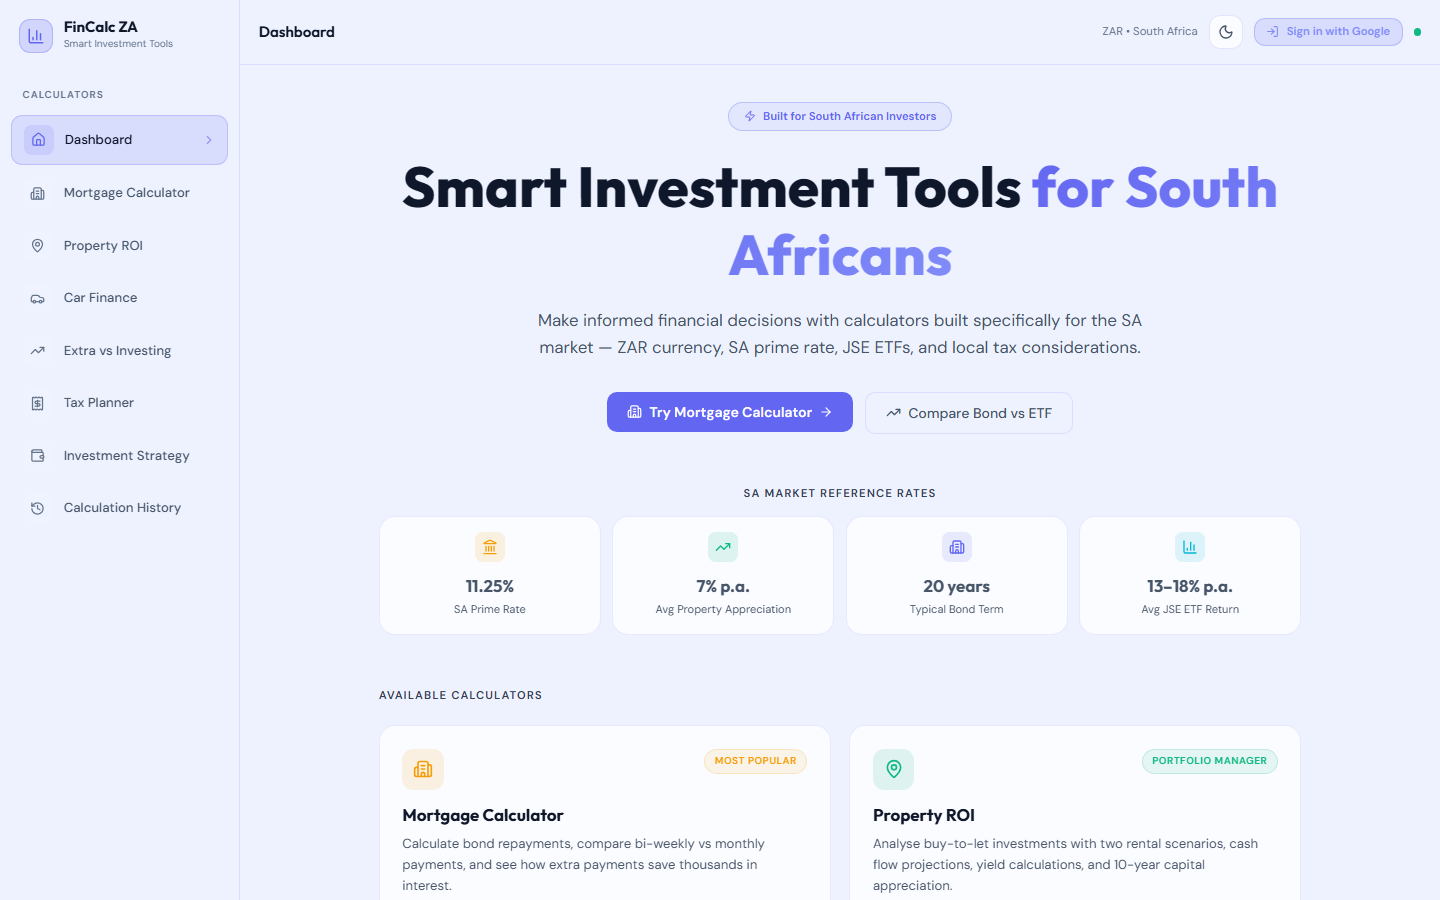
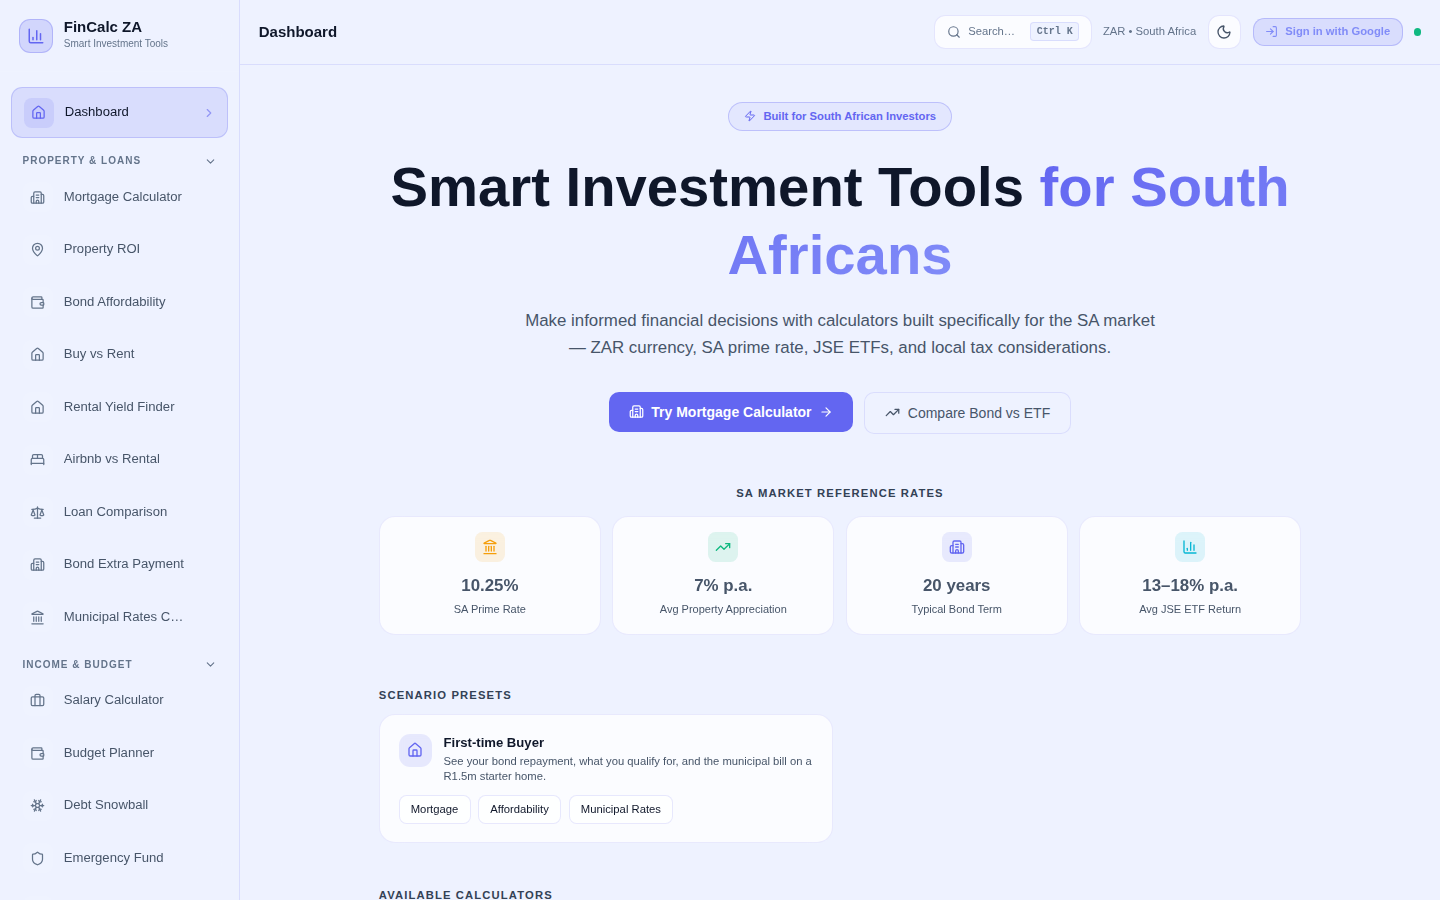
docs: refresh README screenshots to match current UI
Screenshots hadn't been regenerated since before the nav/sidebar
redesign and were no longer linked from the README. Re-run the
automated capture script against the current app to update all
dark/light screenshots and restore the Screenshots section, and
fix the script's browser launch for environments where a pinned
Playwright version doesn't match the installed browser revision.

diff --git a/README.md b/README.md
@@ -8,6 +8,29 @@
 
 ---
 
+## Screenshots
+
+| Dashboard (Dark) | Dashboard (Light) |
+|---|---|
+| ![Dashboard Dark](docs/screenshots/dashboard.png) | ![Dashboard Light](docs/screenshots/dashboard-light.png) |
+
+| Mortgage Calculator | Property ROI |
+|---|---|
+| ![Mortgage](docs/screenshots/mortgage.png) | ![Property ROI](docs/screenshots/property-roi.png) |
+
+| Car Finance | Extra Payments vs Investing |
+|---|---|
+| ![Car Finance](docs/screenshots/car-finance.png) | ![Extra vs Investing](docs/screenshots/extra-vs-investing.png) |
+
+| Tax Planner | Investment Strategy |
+|---|---|
+| ![Tax Planner](docs/screenshots/tax-planner.png) | ![Investment Strategy](docs/screenshots/investment-strategy.png) |
+
+| Calculation History | Light Mode |
+|---|---|
+| ![History](docs/screenshots/history.png) | ![Light Mode](docs/screenshots/light-mode.png) |
+---
+
 ## Features
 
 30+ calculators organised into the same categories used by the sidebar, mobile nav, and command palette (`Ctrl/Cmd+K`).
